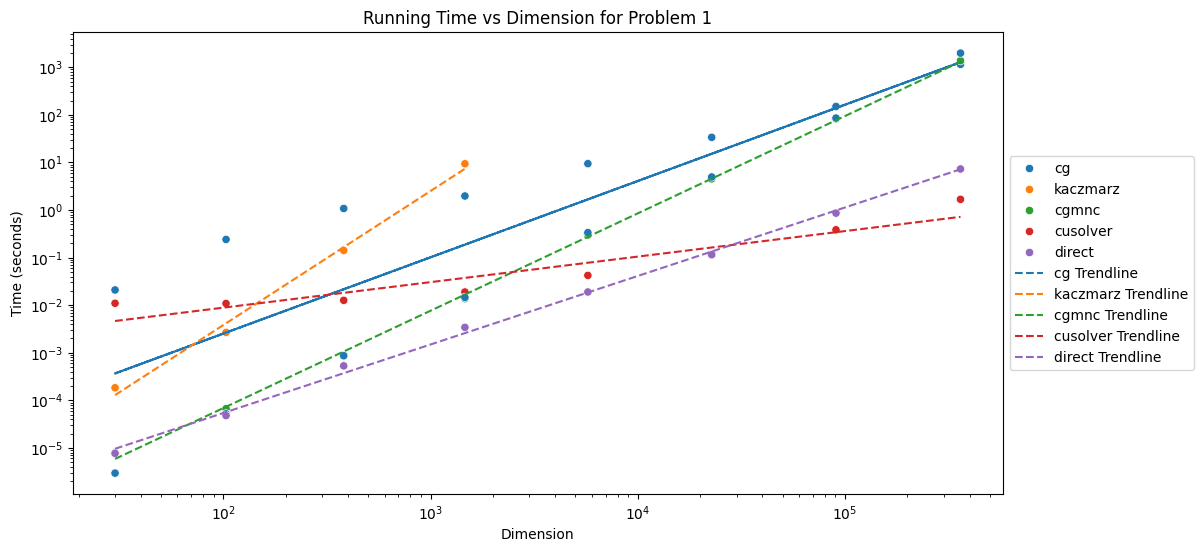
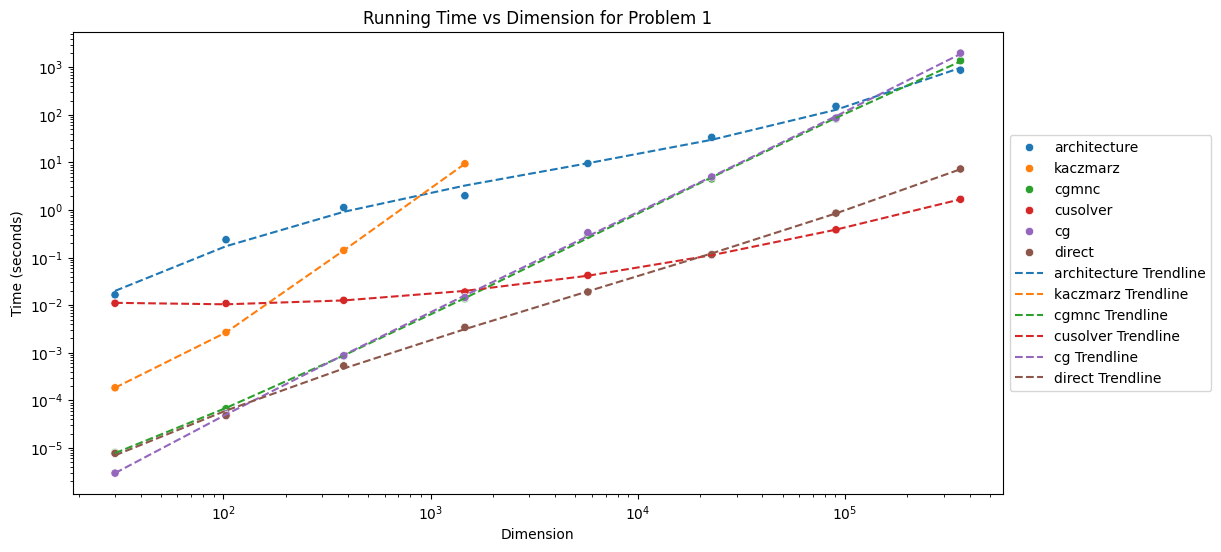
fiddling with plotting

diff --git a/benchmarking_data/compare_running_times/running_times.py b/benchmarking_data/compare_running_times/running_times.py
@@ -5,7 +5,7 @@ import numpy as np
 
 # List of file paths
 file_paths = [
-    '../benchmark_results_carp_cg.csv',
+    '../benchmark_results_carp_cg_specific_architecture.csv',
     '../benchmark_results_basic_kaczmarz.csv',
     '../benchmark_results_cgmnc.csv',
     '../benchmark_results_cusolver.csv',
@@ -48,7 +48,7 @@ for problem, data in problem_data.items():
     # Add trendlines
     for method in data['Method'].unique():
         method_data = data[data['Method'] == method]
-        z = np.polyfit(np.log(method_data['Dim']), np.log(method_data['Time_mean']), 1)
+        z = np.polyfit(np.log(method_data['Dim']), np.log(method_data['Time_mean']), 3)
         p = np.poly1d(z)
         plt.plot(method_data['Dim'], np.exp(p(np.log(method_data['Dim']))), linestyle='--', label=f'{method} Trendline')
 
